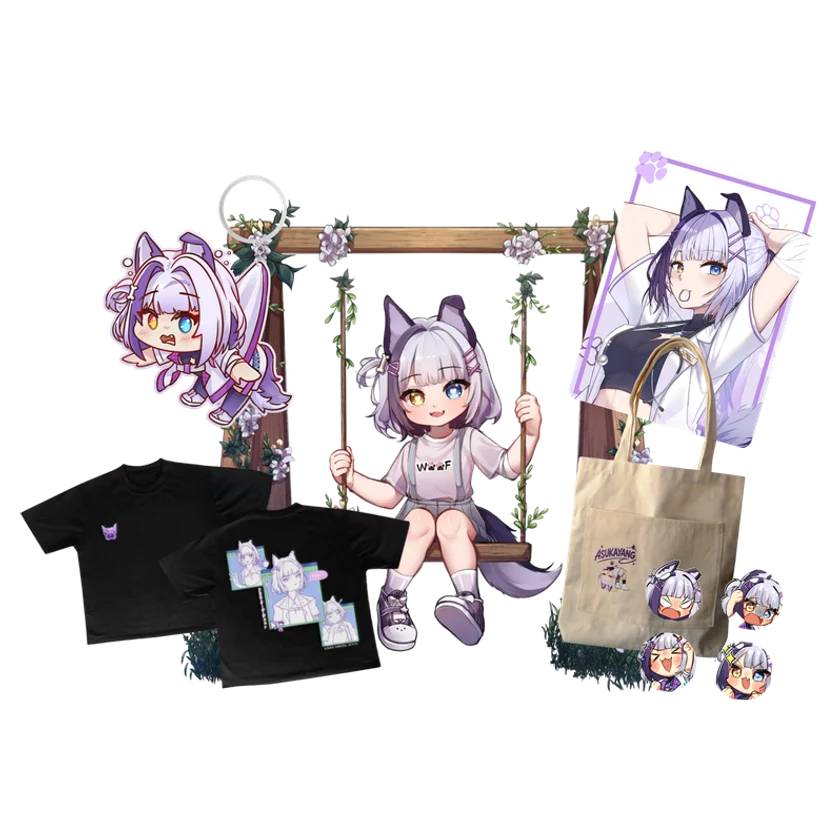
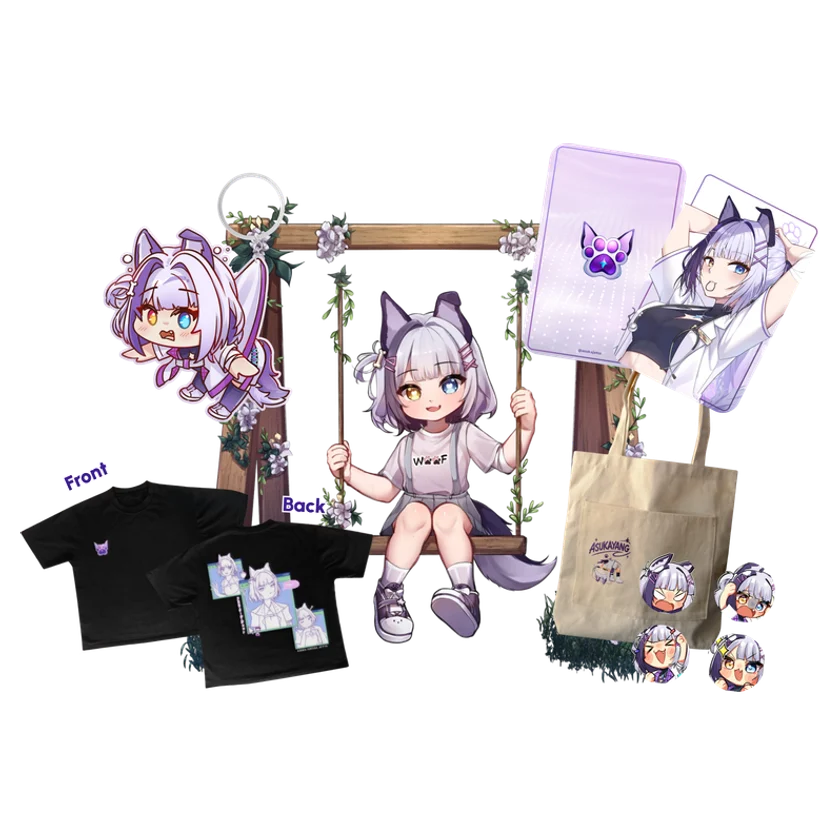
Update the T-shirt, bundle and Vet photocard pictures
New T-shirt picture with front and back, new resting and hover pictures
for Bundling Asu Kecil, Sedang and Besar, and a resting and hover picture
for the Vet Jetto Photocard (its code tilt is removed because the new
pictures are already tilted).

Changed region(s): [[0.031, 0.1548, 0.9905, 0.8357], [0.2786, 0.1857, 0.3095, 0.2167], [0.1238, 0.619, 0.1548, 0.65]]

diff --git a/lib/products.js b/lib/products.js
@@ -70,8 +70,7 @@ const PRODUCTS = [
   },
   {
     sku: 'ASJ-B-PC-2', name: 'Vet Jetto Photocard', type: 'Photocard', po: 20000, ots: 25000, stock: 50,
-    img: '/merch/asj-b-pc-2.webp',
-    tilt: { rest: -7, hover: 4 }, // leans left, swings a little to the right on hover
+    img: '/merch/asj-b-pc-2.webp', imgHover: '/merch/asj-b-pc-2-hover.webp',
     tagline: 'Dokter hewan virtual, tanpa suntik',
     description: 'Aku virtual vet pertama di Indonesia lho! Kapan lagi kamu bisa koleksi Photocard V-Vet satu ini? Dijamin tanpa suntik, tanpa antre.',
   },
